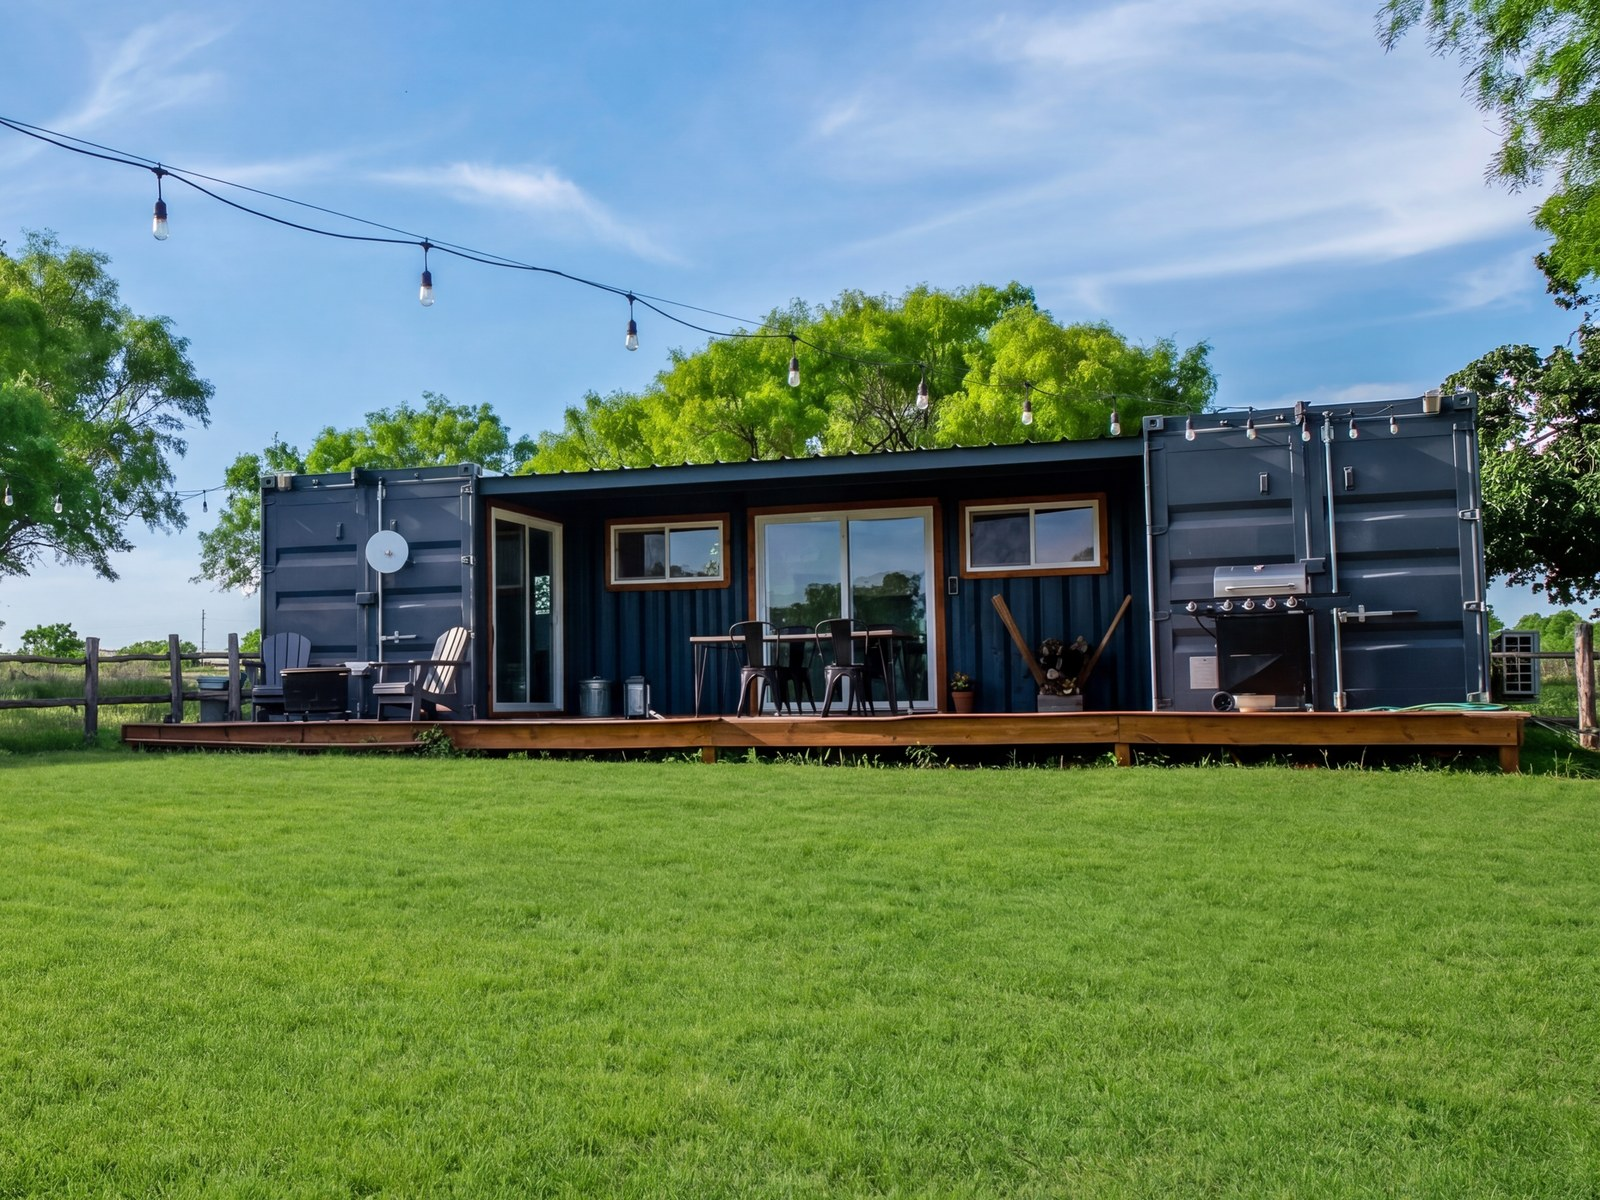
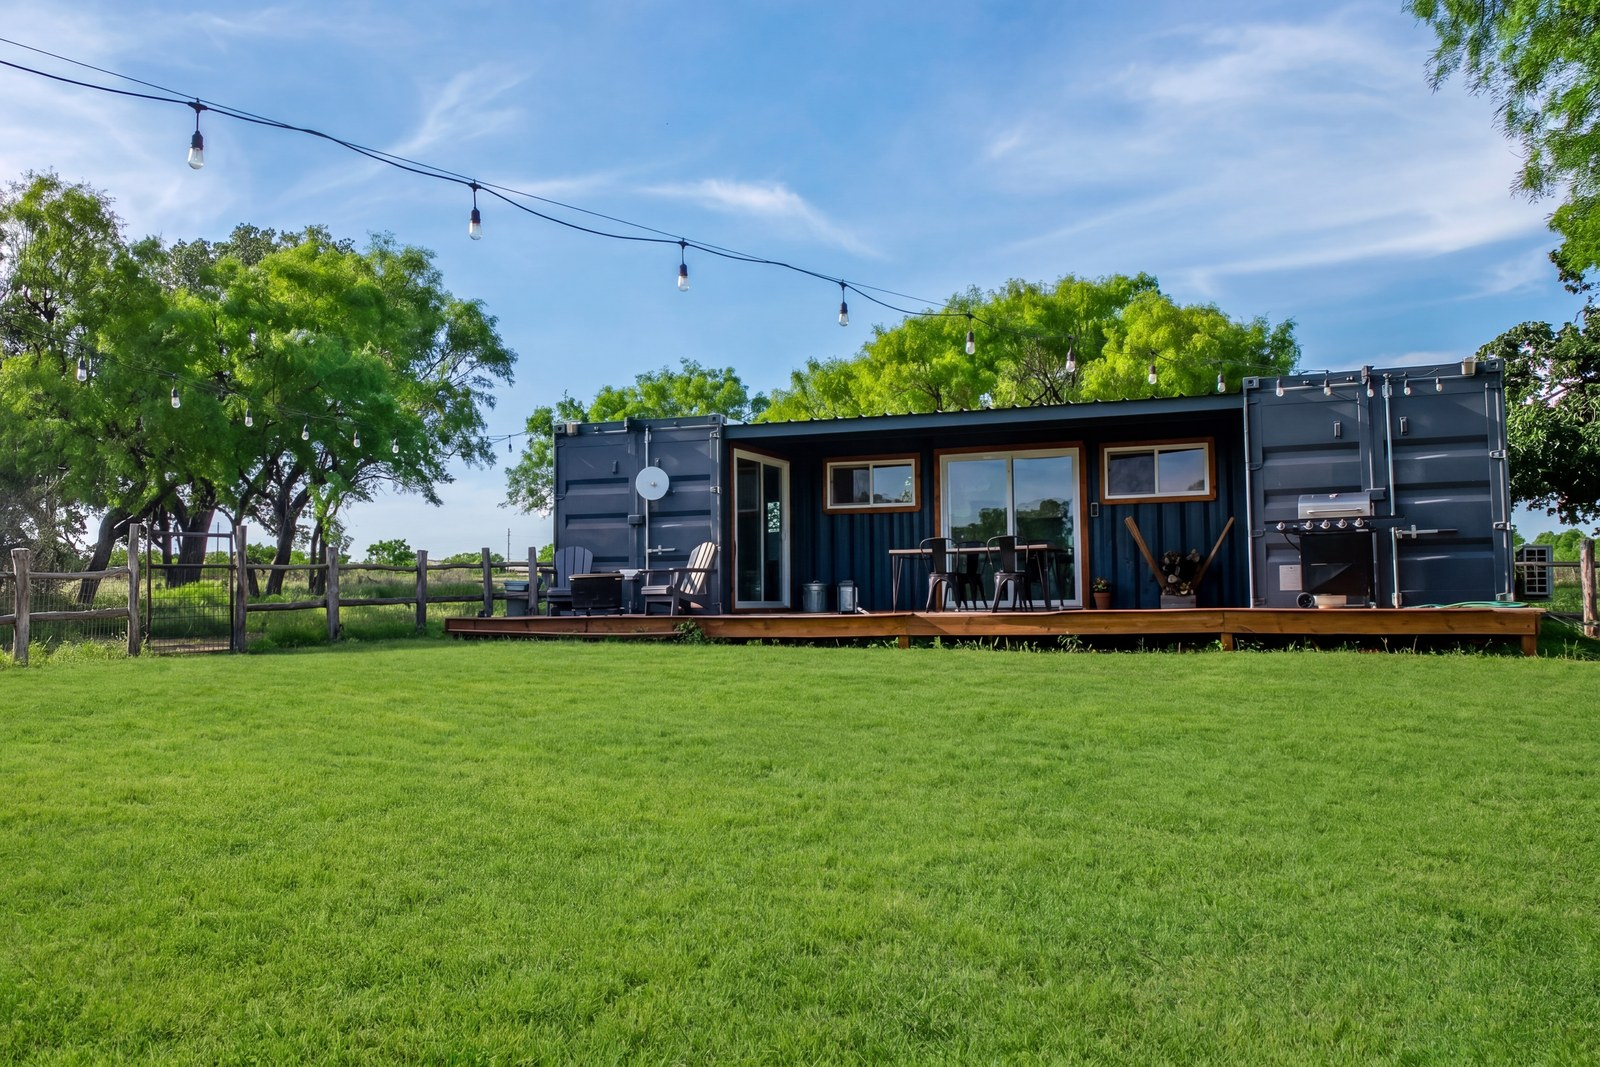
Stay cards: 3:2 photo ratio, recrop Big Bend with full container

diff --git a/styles.css b/styles.css
@@ -295,7 +295,7 @@ section {
 }
 .stay-card:hover { transform: translateY(-4px); box-shadow: var(--shadow-md); }
 .stay-card .photo {
-  aspect-ratio: 4/3;
+  aspect-ratio: 3/2;
   position: relative;
   overflow: hidden;
 }